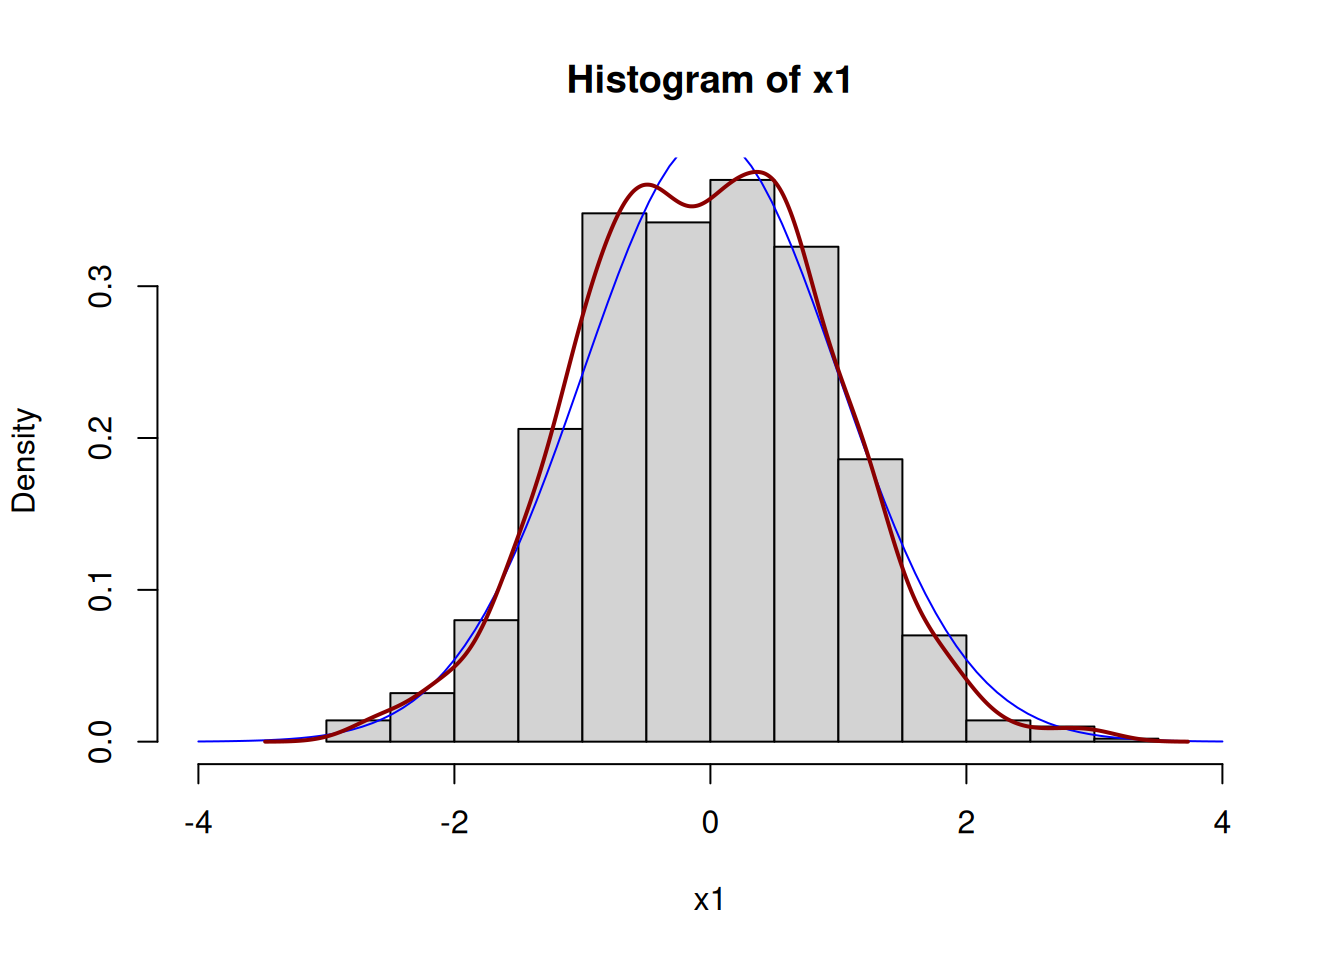
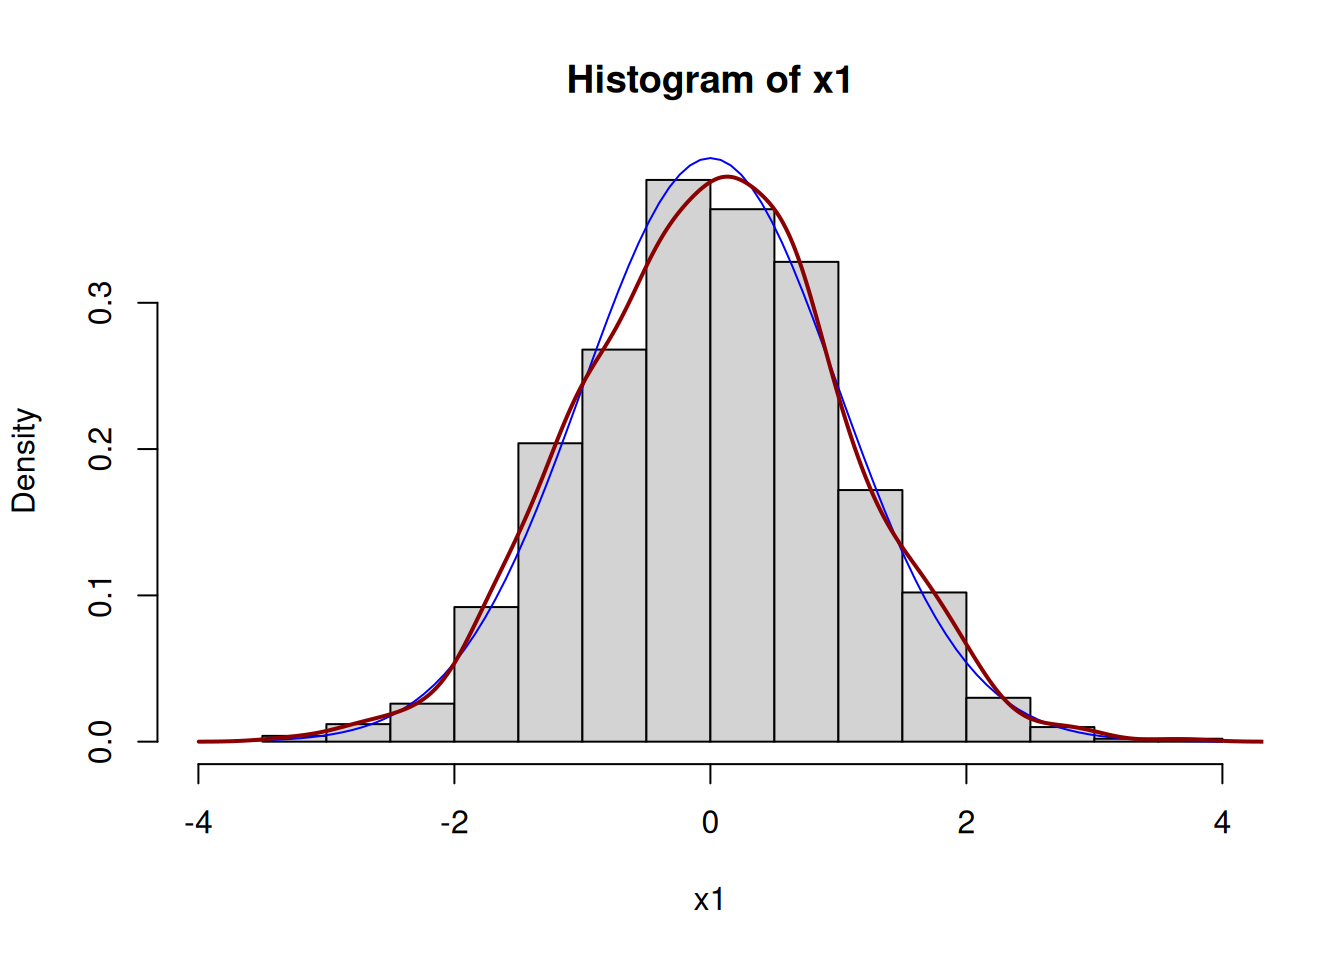
Deploying to gh-pages from @ bcubides-est/molde@dbb1606f40b094b506b9d34fe9af18265d145bcc 🚀

diff --git a/CONTENIDO/Capitulo_Ejemplo.html b/CONTENIDO/Capitulo_Ejemplo.html
@@ -9,7 +9,7 @@
 <meta name="author" content="Brayan Cubides">
 <meta name="description" content="Material del curso —">
 
-<title>2&nbsp; Repaso y Simulación Serie – NOMBRE CURSO</title>
+<title>2&nbsp; Repaso y Simulación Serie – NOMBRE DE CURSO</title>
 <style>
 code{white-space: pre-wrap;}
 span.smallcaps{font-variant: small-caps;}
@@ -307,7 +307,7 @@ pre > code.sourceCode > span > a:first-child::before { text-decoration: underlin
       <img src="../logo.png" alt="" class="sidebar-logo py-0 d-lg-inline d-none">
       </a>
     <div class="sidebar-title mb-0 py-0">
-      <a href="../">NOMBRE CURSO</a> 
+      <a href="../">NOMBRE DE CURSO</a> 
         <div class="sidebar-tools-main tools-wide">
     <a href="https://bcubides-est.github.io/website/" title="Ir a mi web" class="quarto-navigation-tool px-1" aria-label="Ir a mi web"><i class="bi bi-globe"></i></a>
     <a href="javascript:window.print()" title="Descargar (PDF)" class="quarto-navigation-tool px-1" aria-label="Descargar (PDF)"><i class="bi bi-download"></i></a>
@@ -509,19 +509,19 @@ pre > code.sourceCode > span > a:first-child::before { text-decoration: underlin
 <span id="cb13-7"><a href="#cb13-7" aria-hidden="true" tabindex="-1"></a></span>
 <span id="cb13-8"><a href="#cb13-8" aria-hidden="true" tabindex="-1"></a>media  </span></code><button title="Copy to Clipboard" class="code-copy-button"><i class="bi"></i></button></pre></div>
 <div class="cell-output cell-output-stdout">
-<pre><code>[1] -0.04598128</code></pre>
+<pre><code>[1] 0.009483923</code></pre>
 </div>
 <div class="sourceCode cell-code" id="cb15"><pre class="sourceCode r code-with-copy"><code class="sourceCode r"><span id="cb15-1"><a href="#cb15-1" aria-hidden="true" tabindex="-1"></a>varianza </span></code><button title="Copy to Clipboard" class="code-copy-button"><i class="bi"></i></button></pre></div>
 <div class="cell-output cell-output-stdout">
-<pre><code>[1] 0.9198424</code></pre>
+<pre><code>[1] 1.02511</code></pre>
 </div>
 <div class="sourceCode cell-code" id="cb17"><pre class="sourceCode r code-with-copy"><code class="sourceCode r"><span id="cb17-1"><a href="#cb17-1" aria-hidden="true" tabindex="-1"></a>sesgo  </span></code><button title="Copy to Clipboard" class="code-copy-button"><i class="bi"></i></button></pre></div>
 <div class="cell-output cell-output-stdout">
-<pre><code>[1] 0.02707711</code></pre>
+<pre><code>[1] -0.002720313</code></pre>
 </div>
 <div class="sourceCode cell-code" id="cb19"><pre class="sourceCode r code-with-copy"><code class="sourceCode r"><span id="cb19-1"><a href="#cb19-1" aria-hidden="true" tabindex="-1"></a>curtosis</span></code><button title="Copy to Clipboard" class="code-copy-button"><i class="bi"></i></button></pre></div>
 <div class="cell-output cell-output-stdout">
-<pre><code>[1] 2.924692</code></pre>
+<pre><code>[1] 3.03535</code></pre>
 </div>
 </div>
 

diff --git a/index.html b/index.html
@@ -9,7 +9,7 @@
 <meta name="author" content="Brayan Cubides">
 <meta name="description" content="Material del curso —">
 
-<title>NOMBRE CURSO</title>
+<title>NOMBRE DE CURSO</title>
 <style>
 code{white-space: pre-wrap;}
 span.smallcaps{font-variant: small-caps;}
@@ -304,7 +304,7 @@ pre > code.sourceCode > span > a:first-child::before { text-decoration: underlin
       <img src="./logo.png" alt="" class="sidebar-logo py-0 d-lg-inline d-none">
       </a>
     <div class="sidebar-title mb-0 py-0">
-      <a href="./">NOMBRE CURSO</a> 
+      <a href="./">NOMBRE DE CURSO</a> 
         <div class="sidebar-tools-main tools-wide">
     <a href="https://bcubides-est.github.io/website/" title="Ir a mi web" class="quarto-navigation-tool px-1" aria-label="Ir a mi web"><i class="bi bi-globe"></i></a>
     <a href="javascript:window.print()" title="Descargar (PDF)" class="quarto-navigation-tool px-1" aria-label="Descargar (PDF)"><i class="bi bi-download"></i></a>
@@ -352,7 +352,7 @@ pre > code.sourceCode > span > a:first-child::before { text-decoration: underlin
 
 <header id="title-block-header" class="quarto-title-block default">
 <div class="quarto-title">
-<div class="quarto-title-block"><div><h1 class="title">NOMBRE CURSO</h1><button type="button" class="btn code-tools-button" id="quarto-code-tools-source"><i class="bi"></i> Code</button></div></div>
+<div class="quarto-title-block"><div><h1 class="title">NOMBRE DE CURSO</h1><button type="button" class="btn code-tools-button" id="quarto-code-tools-source"><i class="bi"></i> Code</button></div></div>
 </div>
 
 <div>
